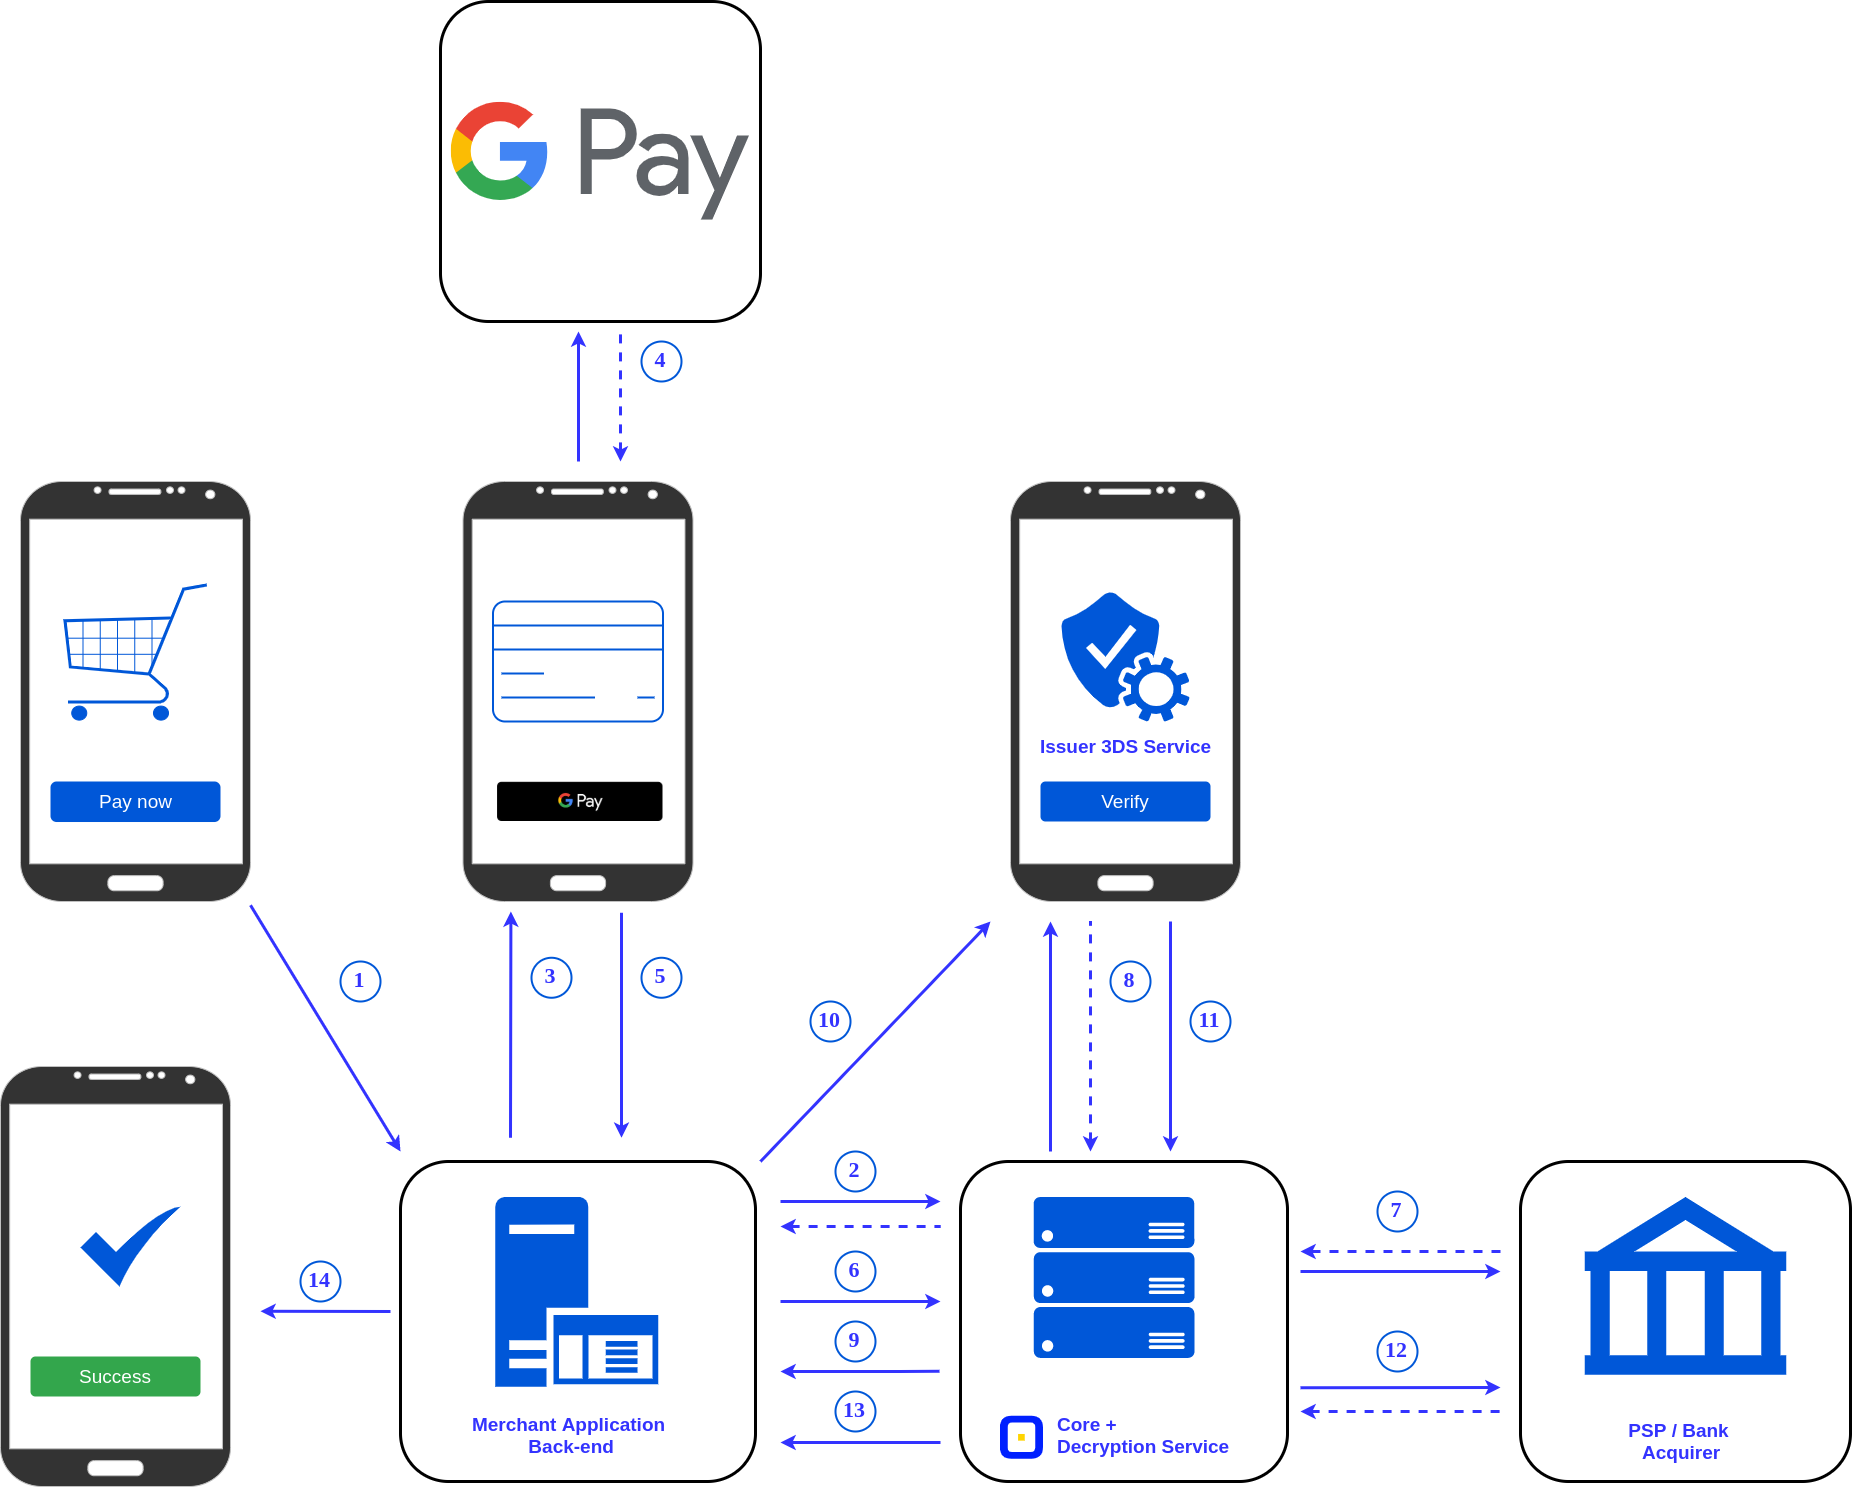
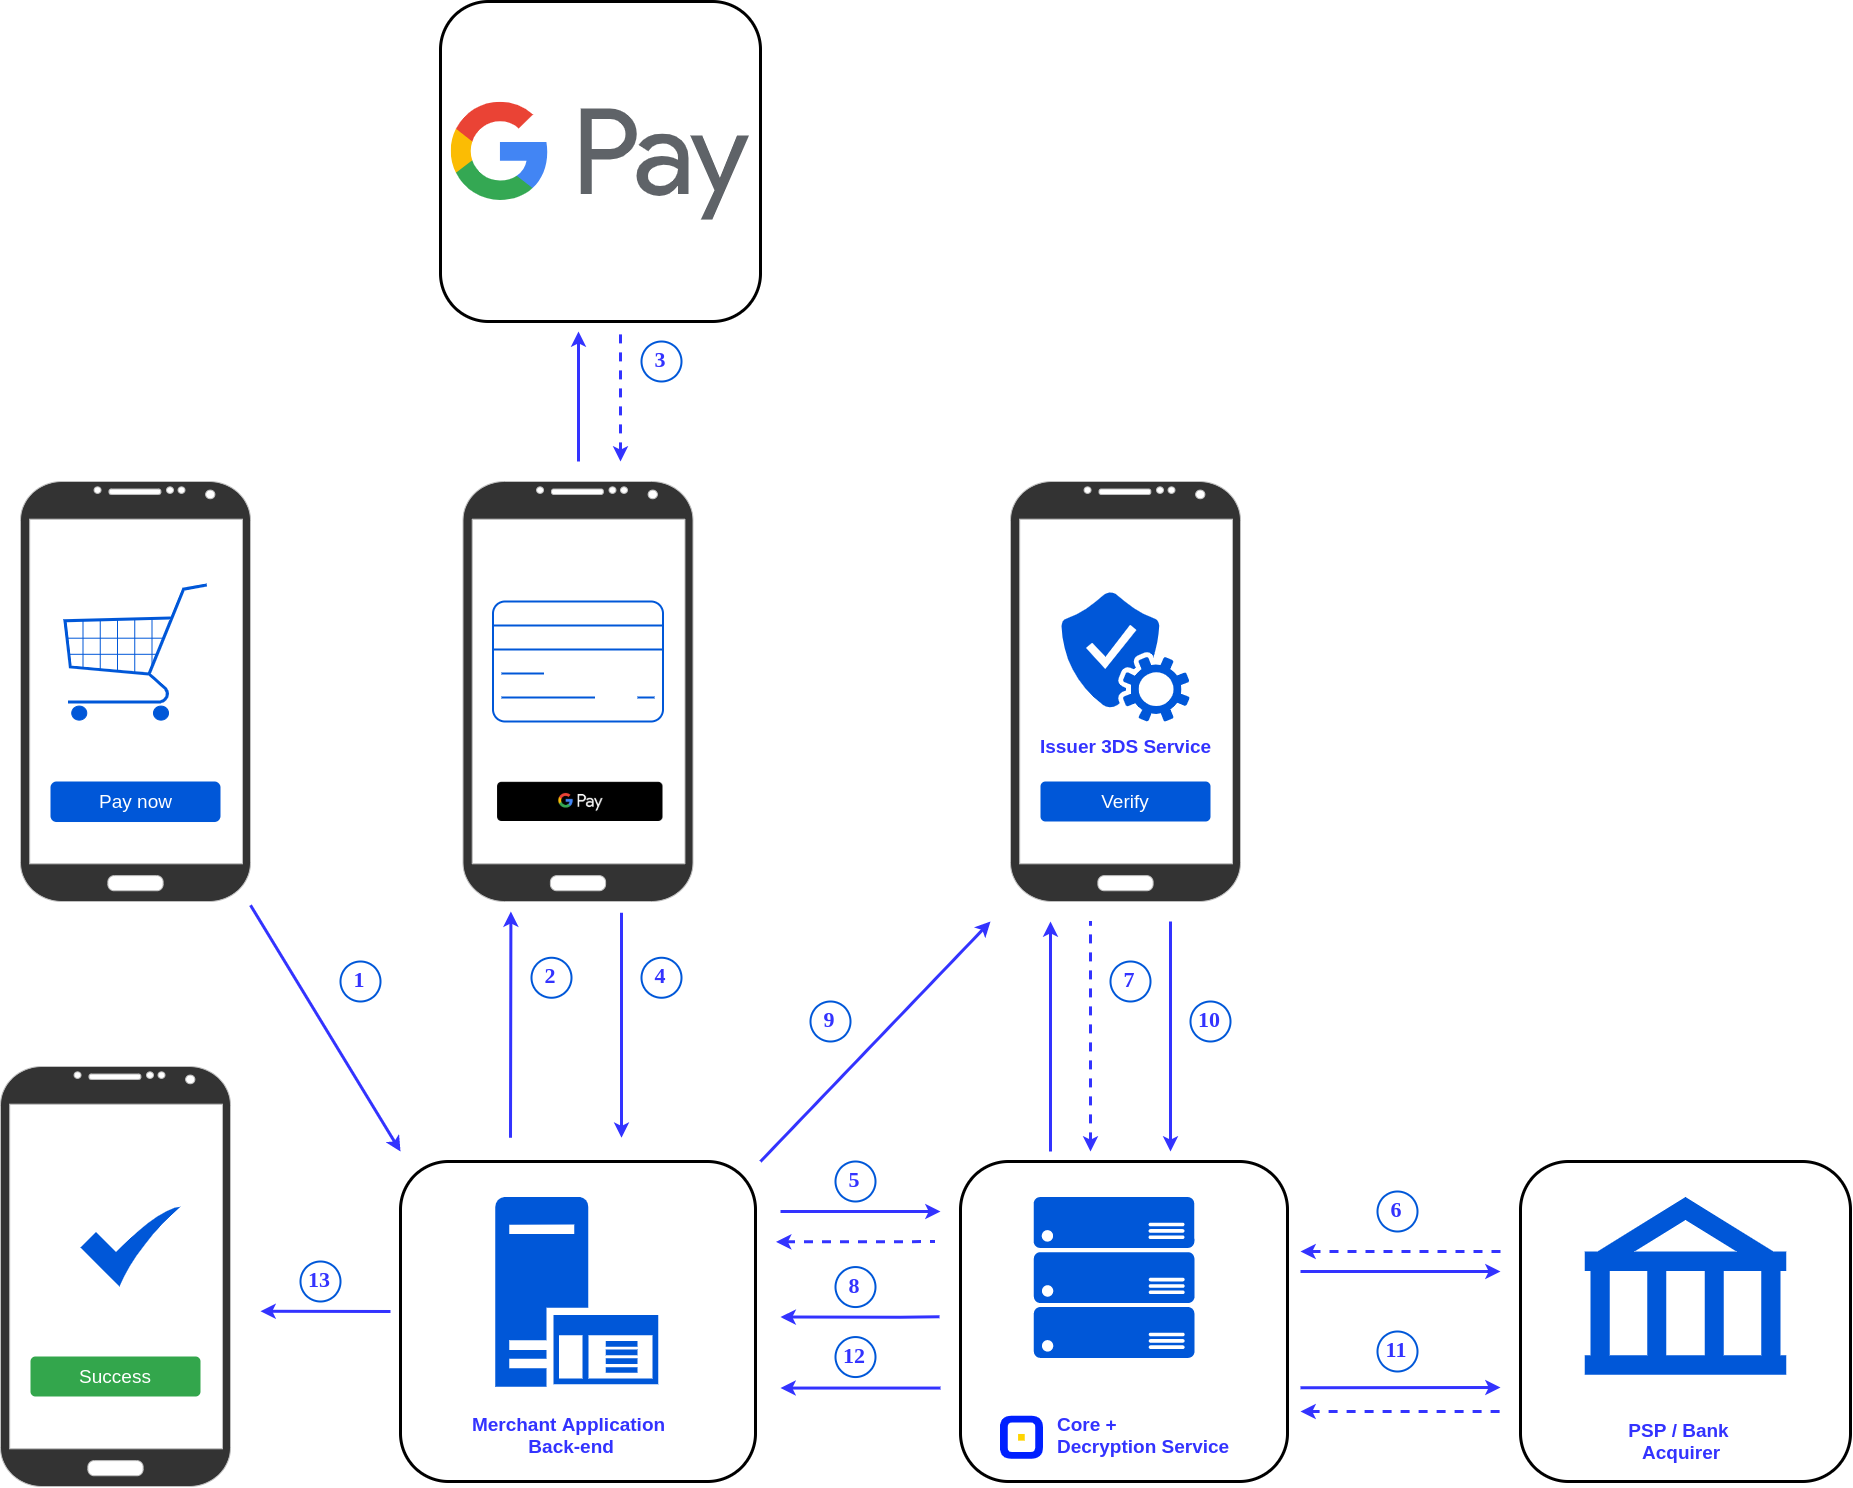
add rn 1.27

diff --git a/docs/release-notes/v1.27.md b/docs/release-notes/v1.27.md
@@ -1,0 +1,55 @@
+# **PayCore.io v1.27 (December 22, 2020)**
+
+<img src="/release-notes/images/v1.27/paycore-greetings-card.png" alt="PayCore" style="width: 320px; float: right; padding-left: 10px;">
+
+*By Dmytro Dziubenko, Chief Technology Officer*
+
+Season's Greetings from the [PayCore.io](https://paycore.io/) team!
+
+This page includes only the new features and product improvements released in the recent two weeks. But all year long, we have worked hard to ensure our products are continually improving to make handling your payment processes more efficient and convenient.
+
+We have done much, but much more is needed to grow and widen our horizons.
+
+## Highlights
+
+* [Increased Metadata limit](#metadata-update) up to 20 attributes
+* [Batch Payouts Validation Update](#batch-payouts-update): the limit number of Base64 characters must not exceed 100,000 in the whole file
+* [Card Gate Update](#card-gateway-update): sanitised Cardholder DTO
+* [Integration Updates](#integration-updates): CoinsPaid, CrossPay, Genome, Ibox Bank, Odysseq, Stripe, xpate; PHP currency
+* [And other minor fixes and performance improvements](#fixes-and-improvements)
+
+## In the Details
+
+### Metadata Update
+
+The Metadata object is heavily used to transfer additional transaction data so fulfilling our clients' requests, we increased its attributes' limit **up to 20**.
+
+### Batch Payouts Update
+
+As a follow-up to the previous [batch payouts' update](/release-notes/v1.22/#batch-payouts-upgrade), we have revised the validation approach because adding new fields made transaction carrying complicated. We check each payout row separately according to provider settings and validate that the limit number of Base64 characters does not exceed **100,000** in the whole batch file.
+
+### Card Gateway Update
+
+Emoji in the cardholder name field? No longer an issue!
+
+We sanitised Cardholder DTO so you can see in the Invoice and the database fields all the 💕 and 😉 that the user put in, and the provider receives in Payment Latin symbols not caused an error.
+
+### Integration Updates
+
+| Provider | Name  | New features |
+|:-:|:-:|:-:|
+| <img src="https://static.openfintech.io/payment_providers/coinspaid/logo.svg?w=70" width="70px">  | [CoinsPaid](/connectors/coinspaid/) | Payouts, Account balances  |
+| <img src="https://static.openfintech.io/payment_providers/crosspay/logo.png?w=70" width="70px"> | [CrossPay](/connectors/crosspay/) | Payouts, Account Balances |
+| <img src="https://static.openfintech.io/payment_providers/genome/logo.svg?w=60" width="60px">  | [Genome](/connectors/genome/) | Update API interaction |
+| <img src="https://static.openfintech.io/payment_providers/iboxbank/logo.png?w=50" width="50px">  | [Ibox Bank](/connectors/iboxbank/) | H2H payment connection |
+| <img src="https://static.openfintech.io/payment_providers/odysseq/logo.svg?w=70" width="70px">      | [Odysseq](/connectors/odysseq/)  | Update API interaction |
+| <img src="https://static.openfintech.io/payment_providers/stripe/logo.svg?w=60" width="60px">  | [Stripe](/connectors/stripe/) | Update Refunds |
+| <img src="https://static.openfintech.io/payment_providers/xpate/logo.svg?w=60" width="60px">  | [xpate](/connectors/xpate/) | Update H2H & Callback handling |
+
+And we have added PHP (the Philippine peso) currency support for card gateway and CardPay PSP.
+
+### Fixes and Improvements
+
+We have fixed a bunch of problems that occurred if we could not set Original ID from the providers to get the transaction's accurate status. And have also made some other bug fixes and system improvements too small to mention.
+
+Stay in touch and have a magical Holiday season, friends!

diff --git a/docs/connectors/4bill/index.md b/docs/connectors/4bill/index.md
@@ -1,48 +1,73 @@
 <img src="https://static.openfintech.io/payment_providers/4bill/logo.svg?w=400" width="400px" >
 
-# 4bill Connector
+# 4bill
 
-## Introduction
+!!! quote ""
+    Payments that drives business
 
-Here You can find  instructions for setting up [**4bill** account](https://4bill.io/)!
+**Website**: [4bill.io](https://4bill.io/)
 
-## Setup account
+**Login**: [login](https://cabinet.4bill.io/login)
 
-#### Step 1: Create merchant account
+Follow the guidance for setting up a connection with 4bill payment service provider.
 
-!!! note
-    To create an account send connection request at [**4bill Website**](https://4bill.io/) or contact manager directly!
+## Set up Account
 
-![Step 2](images/4bill-step1.png)
+### Step 1: Create merchant account
+
+To create an account send connection request at the [website](https://4bill.io/) or contact manager directly. Submit the required documents to verify your account and gain access.
 
 #### Step 2: Get required credentials
 
-- Ask your manager for required credentials
-    -  Point ID
-    -  API key
+Credentials that have to be issued:
 
-!!! note
-    Another parameters You will be able to get within API key (token)! 
+* account_id
+* wallet_id
+* point_id
+* service_id (you need a separate service code for each requested feature)
+* api_token
 
-!!! success
-    You are ready to connect!
-    
-## Connect account
+## Connect Provider Account
 
-#### Step 1: Copy credentials
+### Step 1. Connect account at dashboard.paycore.io
 
--  Point ID
--  API key
+Press **Connect** at [*4bill Provider Overview*](https://dashboard.paycore.io/connect-directory/payment-providers/4bill/general) page in *'New connection'* and choose **Provider account** option to open Connection form.
 
-#### Step 2: Enter credentials
+![Connect](images/provider-account.png)
 
-!!! tip
-    Press **`Connect`** at 4bill **`Provider Overview page`** in **`New connection`** section to open Connection form!
+Enter credentials:
 
-
-
-![Connect](images/4bill_connect.png)
-    
+* account_id --> Account ID
+* point_id --> Point ID (if you have more than one, you should connect each payment point separately)
+* api_token --> API key
 
 !!! success
-    You have connected **4bill**!
+    You have connected **4bill** account!
+
+## Connect H2H Merchant Account
+
+### Step 1. Connect H2H account at dashboard.paycore.io
+
+Press **Connect** at [*4bill Provider Overview*](https://dashboard.paycore.io/connect-directory/payment-providers/4bill/general) page in *'New connection'* and choose **H2H Merchant account** option to open Connection form.
+
+![Connect](images/h2h-merchant-account.png)
+
+Enter credentials:
+
+* account_id --> Account ID
+* point_id --> Point ID (if you have more than one, you should connect each payment point separately)
+* api_token --> API token
+* wallet_id --> Wallet ID (each wallet holds a balance in the related currency)
+* service_id --> Service ID
+
+Choose 'Send merchant data' option if you need to send Commerce MCC and Merchant URL to 4bill.
+
+Choose Test Mode for test connection.
+
+Choose Currency and Features. You can set these parameters according to available currencies and features for your 4bill wallets and services, but it is necessary to check details of the connection with your PayCore.io account manager.
+
+!!! success
+    You have connected **4bill** H2H merchant account!
+
+!!! question "Still looking for help connecting your 4bill account?"
+    [Please contact our support team!](mailto:support@paycore.io)

diff --git a/docs/integration/payment-methods/google-pay.md b/docs/integration/payment-methods/google-pay.md
@@ -58,19 +58,18 @@ Get verified: send mobile app (.apk) or link to your site with the payment page.
 ![Integration Scheme](images/googlepayAPI.png)
 
 1. You request the customer payment data from your application/checkout page.
-2. You send the invoice request to [PayCore.io](http://paycore.io/), and we respond with the invoice ID and the invoice status `created`.
-3. Your application displays available payment methods to the customer, including Google Pay option.
-4. You request the encrypted payment data from your application, and Google Pay authenticates the customer.
-5. You handle the received payment data and send to your server.
-6. The application back-end transfers the encrypted data to [PayCore.io](http://paycore.io/).
-7. We create the purchase request, decrypt the payment data and transfer the card data to the payment service provider (PSP) or bank acquirer service to complete the transaction and obtain a payment response.
-8. The acquirer can request an additional user verification step by passing a 3DS or OTP test.
-9. We send to your application back-end the ACS redirect form.
-10. You display the ACS or OTP to the customer.
-11. We get the response value received from the issuer 3DS service.
-12. We request the payment status from the acquirer and finalize the transaction.
-13. We send a Callback message to the application back-end; if the Callback URL is not set, we expect a status request from your server.
-14. You inform the customer about the result.
+2. Your application displays available payment methods to the customer, including Google Pay option.
+3. You request the encrypted payment data from your application, and Google Pay authenticates the customer.
+4. You handle the received payment data and send to your server.
+5. The application back-end transfers the encrypted data to card gateway [PayCore.io](http://paycore.io/) with the invoice request to the Commerce API, and we respond with the invoice ID and the invoice status `created`.
+6. We decrypt the payment data, create the purchase request, and transfer the card data to the payment service provider (PSP) or bank acquirer service to complete the transaction and obtain a payment response.
+7. The acquirer can request an additional user verification step by passing a 3DS or OTP test.
+8. We send to your application back-end the ACS redirect form.
+9. You display the ACS or OTP to the customer.
+10. We get the response value received from the issuer 3DS service.
+11. We request the payment status from the acquirer and finalize the transaction.
+12. We send a Callback message to the application back-end; if the Callback URL is not set, we expect a status request from your server.
+13. You inform the customer about the result.
 
 ### How to integrate the Google Pay method
 

diff --git a/docs/release-notes/v1.26.md b/docs/release-notes/v1.26.md
@@ -15,7 +15,7 @@ These weeks we have focused on connections and their optimizations. In particula
 * [Payment Gateway Update](#payment-gateway-update): added fields for peer-to-peer options in the *Payment Routes* section
 * [Card Gate Updates](#card-gate-updates): additional parameters in the Commerce settings, getting browser_info from HPP
 * [Receipt Addon](#receipt-addon): added the possibility to specify a provider code
-*[New and Updated Integrations](#new-and-updated-integrations): Axcess Merchant Services, Payeer, UkrGasBank, tome; support of new currencies for CardPay
+* [New and Updated Integrations](#new-and-updated-integrations): Axcess Merchant Services, Payeer, UkrGasBank, tome; support of new currencies for CardPay
 * [Bug Fixes](#bug-fixes)
 
 ### Payment Gateway Update
@@ -26,7 +26,7 @@ We made refactoring of Payment routes' settings and have added fields for peer-t
 
 ### Card Gate Updates
 
-Additional parameters have also appeared in the Commerce Card Gateway settings. They are optional for filling, but you can use them for the dynamic descriptor and for registration of transactions with addons.
+Additional parameters have also appeared in the Commerce Card Gateway settings. They are optional for filling, but you can use them for the dynamic descriptor and transaction registration with addons.
 
 ![Commerce Card Gateway Options](images/v1.26/commerce-cardgateway-options.png)
 
@@ -36,7 +36,7 @@ We have also closed the indexing of Card Gate. So, be sure: no robots allowed on
 
 ### Receipt Addon
 
-Slight but enjoyable improvement for users of the Addon: we added the possibility to specify a provider code in your transaction receipts. Thus, in case you need this option, please contact your account manager to configure all the receipt fields.
+Slight but enjoyable improvement for the Addon users: we added the possibility to specify a provider code in your transaction receipts. Thus, if you need this option, please contact your account manager to configure all the receipt fields.
 
 ### New and Updated Integrations
 

diff --git a/docs/connectors/index.md b/docs/connectors/index.md
@@ -40,7 +40,7 @@ Click on the name of the desired connector and follow the link to the step-by-st
 | <img src="https://static.openfintech.io/payment_providers/certusfinance/logo.png?w=120" width="120px">  | [Certus Finance](certusfinance/) | Payouts  | [according to the provider account settings] |
 | <img src="https://static.openfintech.io/payment_providers/cib/logo.svg?w=120" width="120px"> | [ComIn Bank](cib/)  | H2H connection, Payouts, Account balances | UAH |
 | <img src="https://static.openfintech.io/payment_providers/coingate/logo.svg?w=70" width="70px"> | [CoinGate](coingate/) | Payments | BCH, BTC, ETH, EUR, LTC, USD |
-| <img src="https://static.openfintech.io/payment_providers/coinspaid/logo.svg?w=70" width="70px"> | [CoinsPaid](coinspaid/) | Payouts, Account Balances | [according to the provider account settings] | |
+| <img src="https://static.openfintech.io/payment_providers/coinspaid/logo.svg?w=70" width="70px"> | [CoinsPaid](coinspaid/) | Payments, Payouts, Account Balances | [according to the provider account settings] | |
 | <img src="https://static.openfintech.io/payment_providers/concord/logo.svg?w=120" width="120px"> | [Concord Bank](concord/)  | H2H connection, Payouts, Account balances | UAH |
 | <img src="https://static.openfintech.io/payment_providers/connectum/logo.svg?w=70" width="70px">  | [Connectum](connectum/) | H2H connection | AUD, CAD, EUR, GBP, UAH, USD |
 | <img src="https://static.openfintech.io/payment_providers/crosspay/logo.png?w=80" width="80px">  | [CrossPay](crosspay/) | Payouts, Account Balances | [according to the provider account settings] |

diff --git a/docs/connectors/iboxbank/index.md b/docs/connectors/iboxbank/index.md
@@ -18,7 +18,9 @@ Send a request on the [website](https://iboxbank.online/ua/open-account) or call
 
 Credentials that have to be issued from your Ibox Bank account manager:
 
-* ID
+* Merchant ID
+* Point ID
+* Service ID
 * Public IboxBank Key
 
 Upon registration with the system you will be able to create the necessary quantity of payment points and generate Private keys for each points.
@@ -30,8 +32,6 @@ Upon registration with the system you will be able to create the necessary quant
 After key generation, you can download it in the point's settings:
 ![Download](images/download-private-key.png)
 
-<!--
-
 ## Connect Provider Account
 
 ### Step 1. Connect account at dashboard.paycore.io
@@ -42,12 +42,18 @@ Press **Connect** at [*Ibox Bank Provider Overview*](https://dashboard.paycore.i
 
 Enter credentials:
 
-[//]: # (Also, choose Test Mode for test connection with Ibox Bank, and P2P mode for connection in  peer-to-peer payment network.)
+* Point ID
+* Service ID
+
+!!! attention "Please be aware"
+    You should connect each point and each available service separately.
+
+Upload files with related Public IboxBank key and Private payment point key.
+
+Also, choose Test Mode for test connection with Ibox Bank.
 
 !!! success
     You have connected **Ibox Bank** account!
-
--->
 
 ## Connect H2H Merchant Account
 

diff --git a/docs/release-notes/index.md b/docs/release-notes/index.md
@@ -4,6 +4,14 @@
 
 This changelog lists releases by date and version number, along with associated changes.
 
+## [v1.27 22/12/2020](v1.27/)
+
+* [Increased Metadata limit](v1.27/#metadata-update) up to 20 attributes
+* [Batch Payouts Validation Update](v1.27/#batch-payouts-update): the limit number of Base64 characters must not exceed 100,000 in the whole file
+* [Card Gate Update](v1.27/#card-gateway-update): sanitised Cardholder DTO
+* [Integration Updates](v1.27/#integration-updates): CoinsPaid, CrossPay, Genome, Ibox Bank, Odysseq, Stripe, xpate; PHP currency
+* [And other minor fixes and performance improvements](v1.27/#fixes-and-improvements)
+
 ## [v1.26 08/12/2020](v1.26/)
 
 * [Payment Gateway Update](v1.26/#payment-gateway-update): added fields for peer-to-peer options in the *Payment Routes* section

diff --git a/docs/release-notes/v1.25.md b/docs/release-notes/v1.25.md
@@ -78,7 +78,7 @@ Besides, we added the `{city}` field to the dynamic descriptor for the [Procard]
 
 #### Card Holder Data Transfer
 
-We should also highlight the added common standard scheme for transferring cardholder parameter for transferring cardholder name data to the following connectors:
+We should also highlight the added common standard scheme for transferring cardholder name parameter to the following connectors:
 
 * [AlfaBank](/connectors/alfabank/)
 * [Connectum](/connectors/connectum/)
